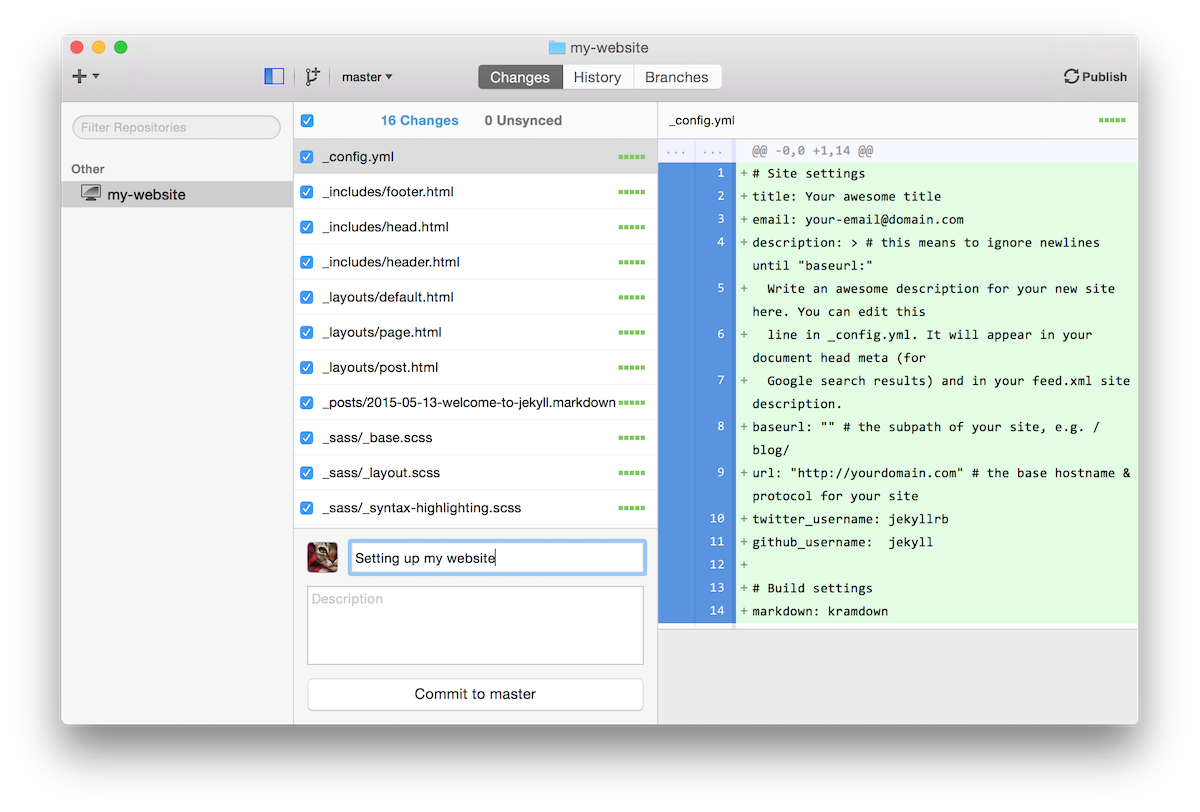
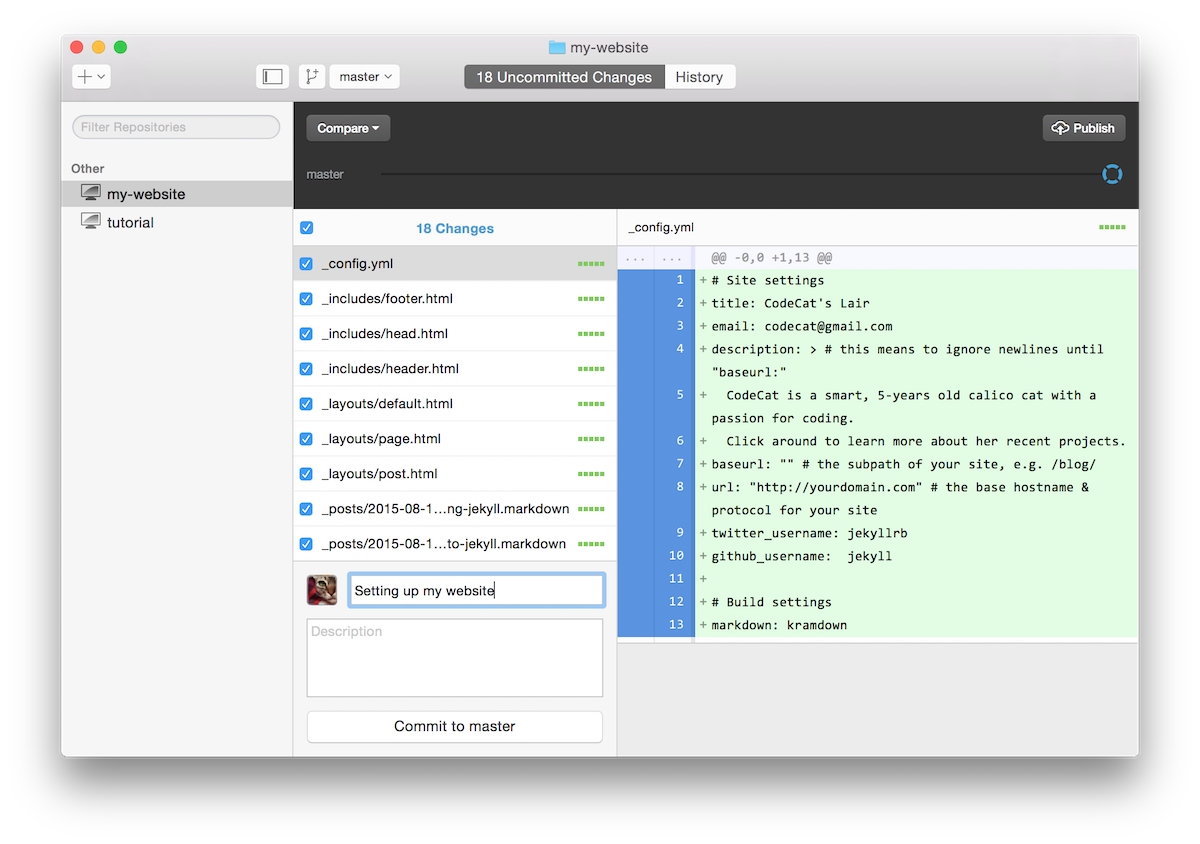
updated github mac app screens for publish

Changed region(s): [[0.0617, 0.0308, 0.9558, 0.8313], [0.0617, 0.8313, 0.925, 0.9236]]

diff --git a/7-update/index.md b/7-update/index.md
@@ -47,16 +47,16 @@ Once you're happy with the new images on your website, it's time to sync the cha
 Open the GitHub app on your computer again and go through both of the steps you've learned in <a href="{{ "/6-publish#syncing-step-1-review-and-commit-your-changes" | prepend: site.baseurl }}">Part 6</a>. To recap:
 
 <ol>
-	<li>You first need to review the changes you've made in the <strong>Changes section</strong> of the app (make sure there aren't any changes you don't want to publish here - it happens!)</li>
-	<li>After you've checked the changes in all files, write a Summary for your commit and click the Commit to master button, so your changes will be moved to the <strong>Unsynced section</strong></li>
-	<li>Now you can click on the <strong>Sync button</strong> in the top right corner to push your Unsynced changes to your repository on GitHub, which will automatically update the online version of your website.</li>
+	<li>You first need to review the changes you've made in the <strong>Uncommitted Changes</strong> section of the app (make sure there aren't any changes you don't want to publish here - it happens!)</li>
+	<li>After you've checked the changes in all files, write a Summary for your commit and click the Commit to master button, so your commit package will be moved to the <strong>History</strong> section</li>
+	<li>Now you can click on the <strong>Sync</strong> button in the top right corner to push your latest commit to your repository on GitHub, which will automatically update the online version of your website.</li>
 </ol>
 
 <img src="{{ "/images/github-mac-3-update-image.png" | prepend: site.baseurl }}"/>
 
-After the sync, your website at **username.github.io** should also have the photos you've just added. 
+After the sync, your website at **username.github.io** should also have the photos you've just added. Just keep in mind that sometimes it takes a few minutes for changes to appear. If your latest changes are listed on your repository page on GitHub (https://github.com/username/username.github.io), they should eventually appear on your website too.
 
-You can do this every time you have new content for your website or want to change its look.
+You can sync your website this way every time you have new content for your website or want to change its look.
 
 <div class="recap">
 <h2>What did you learn?</h2>
